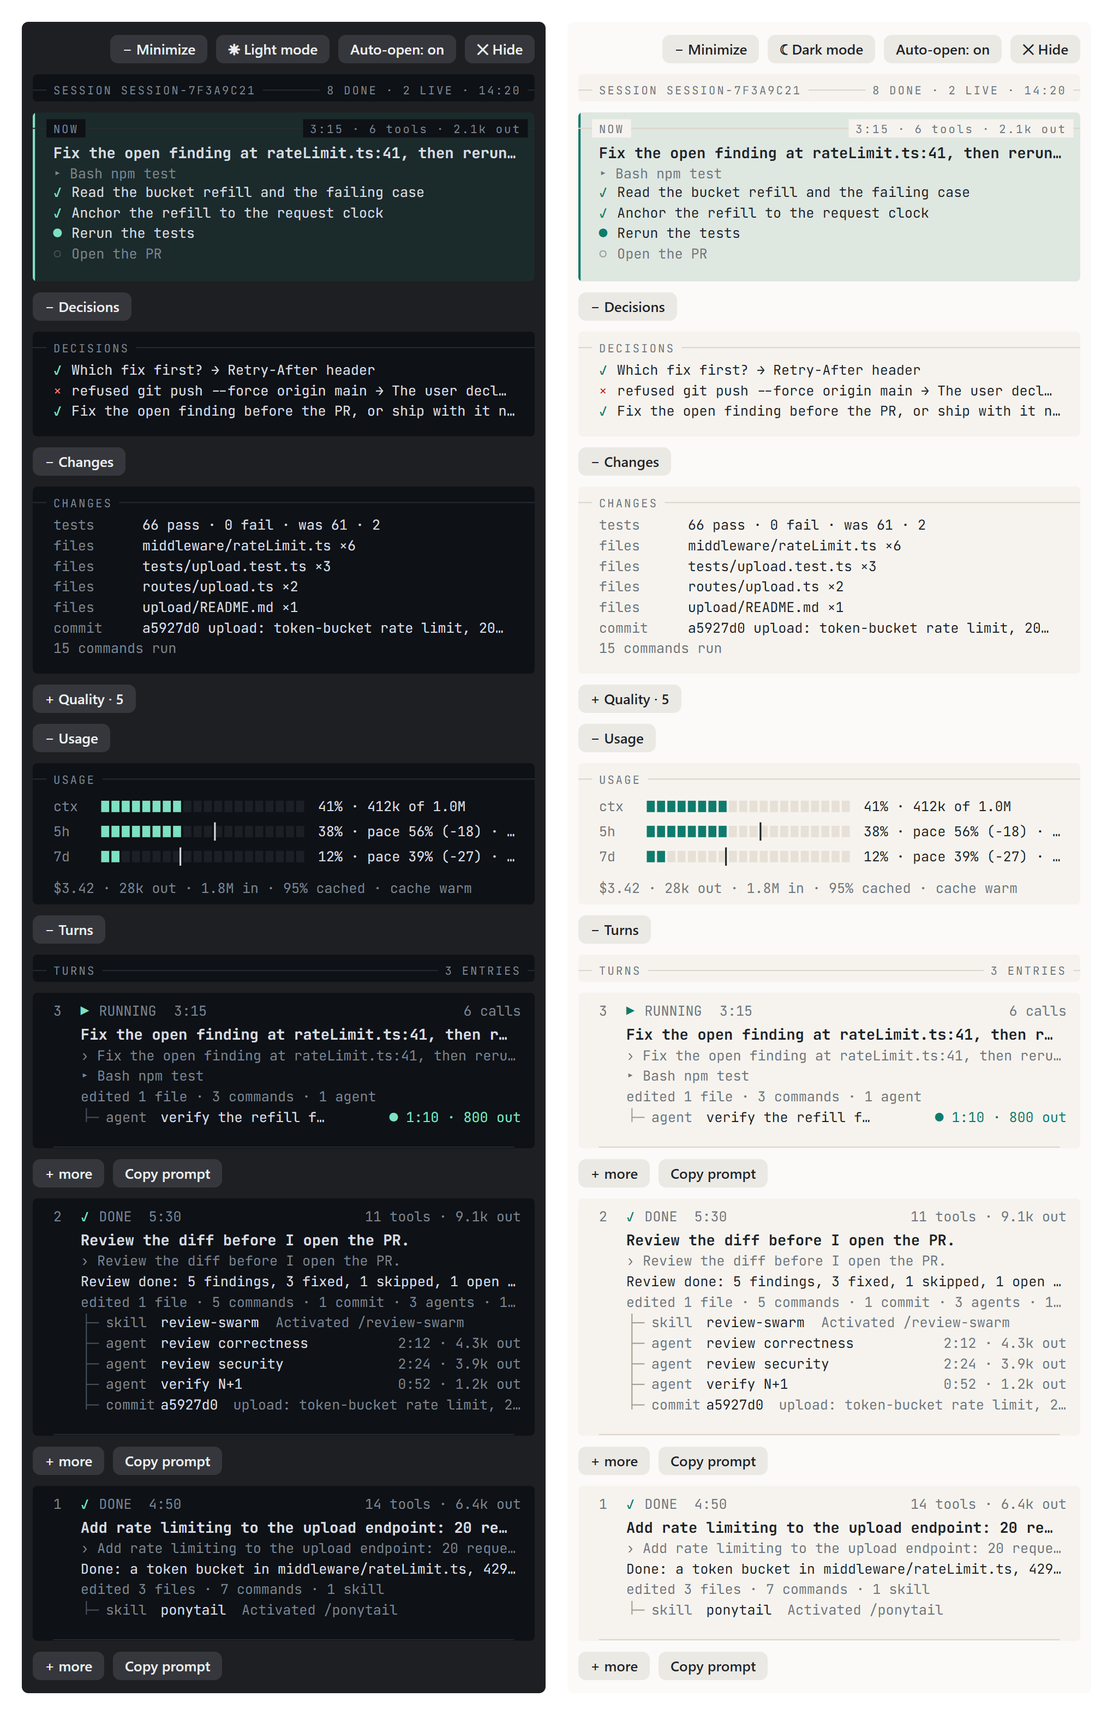
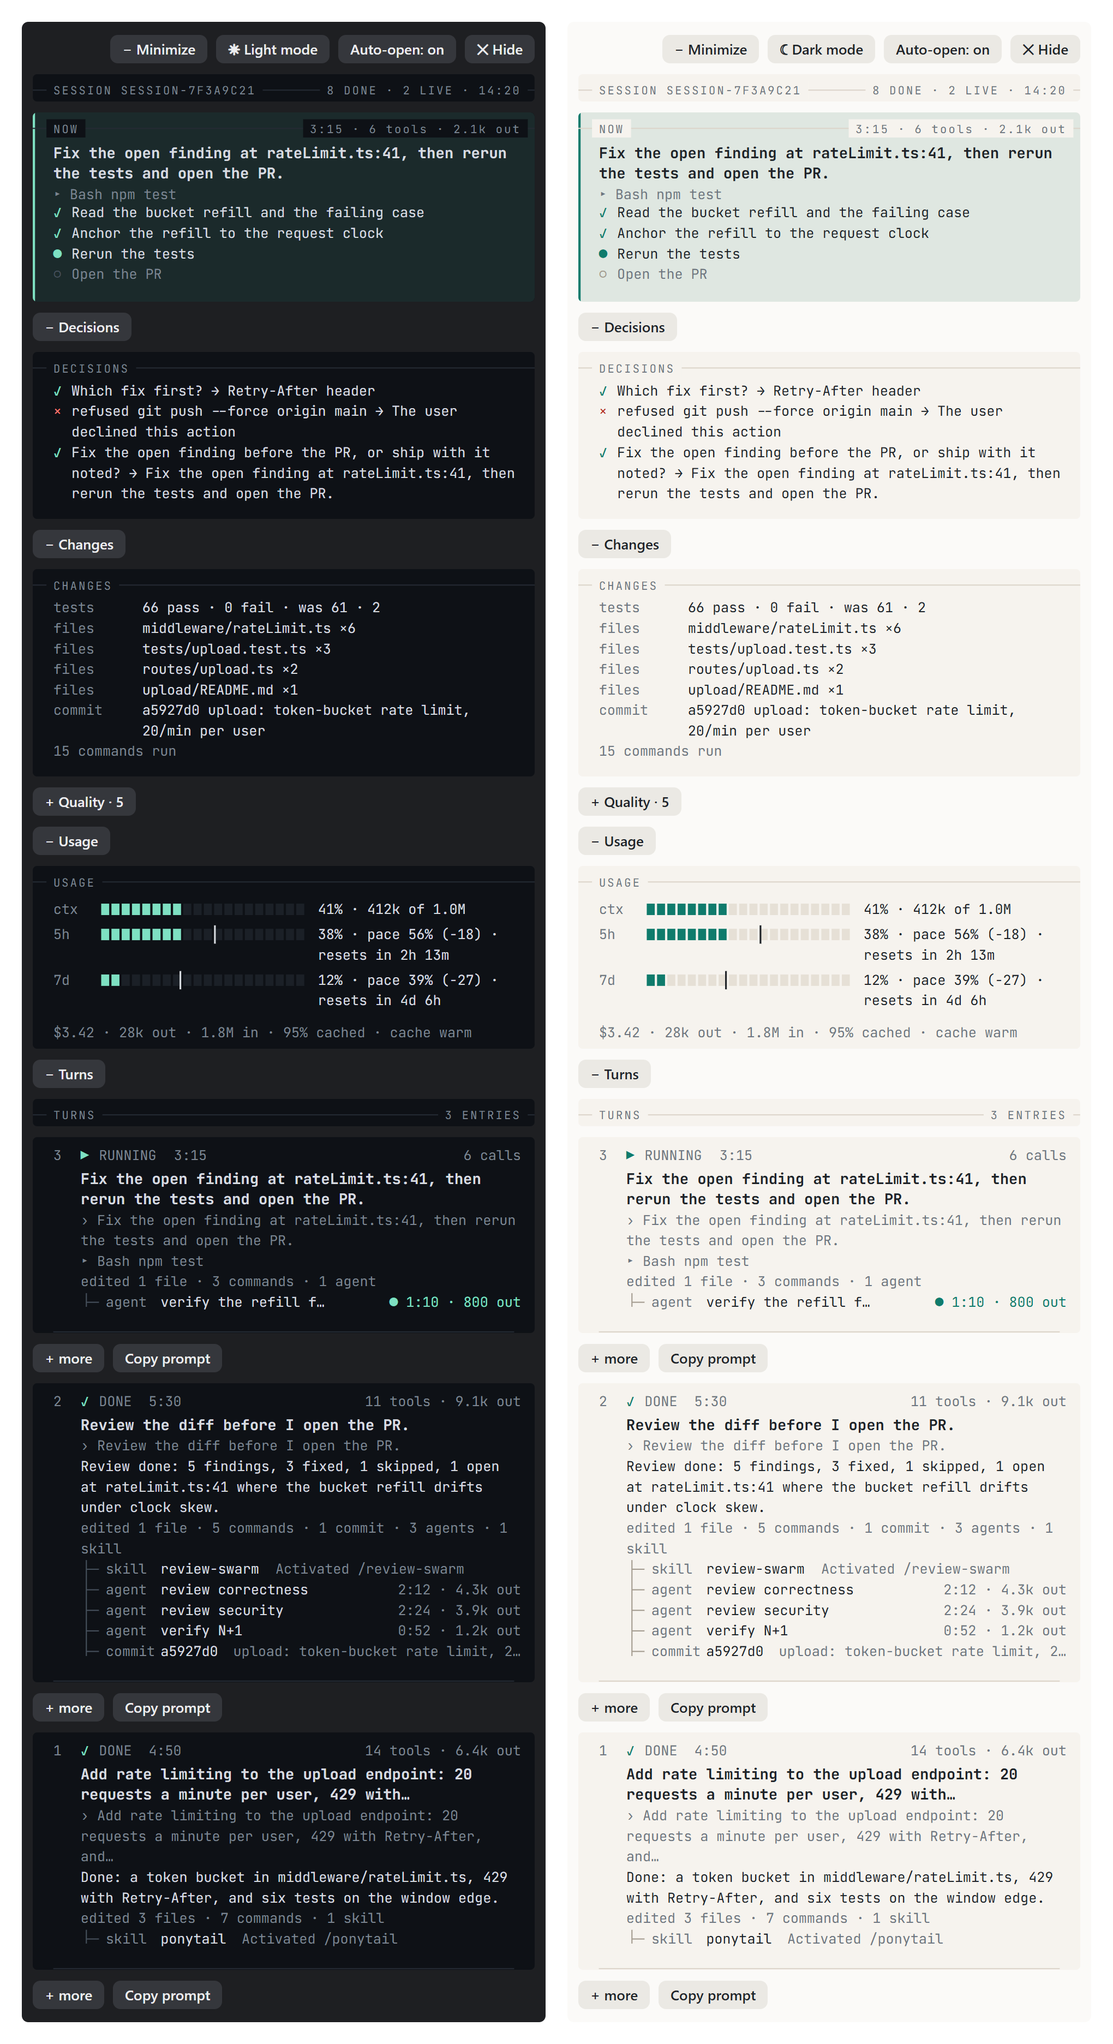
workflow-watch 0.11.6: sentences wrap instead of being cut
Every line that carries a sentence wraps onto further rows and the card
grows by them (four rows at most per line): the NOW title and its live
line, the plan's steps, the DECISIONS, CHANGES and QUALITY lines, a turn's
title, prompt, result and digest, and the USAGE readings and figures. A
turn's title runs to 100 characters of the prompt's first sentence instead
of 60, and a clipped line no longer leaves its ellipsis alone on a row. The
README pictures are drawn again from the same card code.

diff --git a/mods/workflow-watch/hooks/cards.ts b/mods/workflow-watch/hooks/cards.ts
@@ -71,29 +71,67 @@ const GLYPH: Record<string, string> = { '✓': 'acc', '●': 'acc', '○': 'fain
 const LABELS = new Set(['tests', 'files', 'commit', 'review', 'verdict', 'skills'])
 const LINE_H = 18
 
-/** One text line of a section, colored by what it starts with: a state glyph in its tone, a label word muted, the rest in ink. */
-function paintLine(y: number, raw: string): string {
+/** The most rows one line of text takes once wrapped; what is left after them ends in an ellipsis. */
+const MAX_ROWS = 4
+
+/** Wraps a line to the rows that fit `px` at `size`, at most `max` of them, the last cut when more remains; a blank line is one empty row. */
+const wrapTo = (v: string, px: number, size: number, max = MAX_ROWS): string[] => {
+  const rows = wrap(v, px, size)
+  if (rows.length === 0) return ['']
+  if (rows.length <= max) return rows
+  const kept = rows.slice(0, max)
+  kept[max - 1] = fit(`${kept[max - 1]}…`, px, size)
+  return kept
+}
+
+/** Rows of one text column from `y` down, one `text` per row. */
+const column = (x: number, y: number, rows: string[], cls: string, extra = ''): string => rows.map((r, i) => text(x, y + i * LINE_H, r, cls, extra)).join('')
+
+/**
+ * One line of a section as the rows it wraps to, colored by what it starts with: a state glyph in its tone, a label
+ * word muted, the rest in ink. A sentence wraps onto further rows instead of being cut at the card's edge.
+ */
+function paintLine(y: number, raw: string): { svg: string; rows: number } {
   const indent = raw.length - raw.trimStart().length
   const line = raw.trim()
-  if (!line) return ''
+  if (!line) return { svg: '', rows: 1 }
   const glyph = line[0] ?? ''
   const cls = GLYPH[glyph]
-  if (cls && line[1] === ' ') {
-    const rest = line.slice(2)
-    const band = glyph === '?' ? `<rect class="warnDim" x="12" y="${y - 13}" width="${W - 24}" height="${LINE_H}" rx="3"/>` : ''
-    return `${band}${text(18, y, glyph, cls)}${text(34, y, fit(rest, W - 34 - 16, 12), glyph === '○' ? 'mute' : 'ink')}`
+  const body = (x: number, v: string, textCls: string): { svg: string; rows: number } => {
+    const rows = wrapTo(v, W - x - 16, 12)
+    return { svg: column(x, y, rows, textCls), rows: rows.length }
   }
-  if (indent >= 6) return text(96, y, fit(line, W - 96 - 16, 12), 'faint')
+  if (cls && line[1] === ' ') {
+    const rest = body(34, line.slice(2), glyph === '○' ? 'mute' : 'ink')
+    const band = glyph === '?' ? `<rect class="warnDim" x="12" y="${y - 13}" width="${W - 24}" height="${rest.rows * LINE_H}" rx="3"/>` : ''
+    return { svg: `${band}${text(18, y, glyph, cls)}${rest.svg}`, rows: rest.rows }
+  }
+  if (indent >= 6) return body(96, line, 'faint')
   const word = line.split(/\s+/)[0] ?? ''
-  if (LABELS.has(word)) return `${text(18, y, word, 'mute')}${text(96, y, fit(line.slice(word.length).trim(), W - 96 - 16, 12))}`
-  return text(18, y, fit(line, W - 34, 12), 'mute')
+  if (LABELS.has(word)) {
+    const rest = body(96, line.slice(word.length).trim(), 'ink')
+    return { svg: `${text(18, y, word, 'mute')}${rest.svg}`, rows: rest.rows }
+  }
+  return body(18, line, 'mute')
+}
+
+/** Paints lines from `y` down, each taking the rows it wraps to; `end` is the y the next line would start at. */
+function paintLines(y: number, lines: string[]): { svg: string; end: number } {
+  let svg = ''
+  for (const l of lines) {
+    const p = paintLine(y, l)
+    svg += p.svg
+    y += p.rows * LINE_H
+  }
+  return { svg, end: y }
 }
 
 /** A section: its rule, then its text lines; null when it has no lines. */
 export function linesPanel(label: string, right: string, lines: string[], theme: Theme): Card | null {
   if (lines.length === 0) return null
-  const h = 30 + lines.length * LINE_H + 8
-  const body = rule(14, label, right) + lines.map((l, i) => paintLine(38 + i * LINE_H, l)).join('')
+  const painted = paintLines(38, lines)
+  const h = 30 + (painted.end - 38) + 8
+  const body = rule(14, label, right) + painted.svg
   return { source: svg(h, body, theme), alt: [label, ...lines.map(l => l.trim())].join(' | '), width: W, height: h }
 }
 
@@ -119,35 +157,51 @@ export function nowPanel(turn: Stage | undefined, signals: Signals | undefined, 
   const lines: string[] = []
   if (turn) lines.push(turnTitle(turn.prompt) ?? turn.label, liveLine(turn))
   else lines.push('waiting for the first turn')
-  const h = 30 + (lines.length + plan.length) * LINE_H + 10
   const right = turn ? `${elapsed((turn.endedAt ?? now) - turn.startedAt)} · ${figures(turn)}` : ''
   const isLive = turn?.endedAt === null
-  const body =
-    (isLive ? `<rect class="accDim" width="${W}" height="${h}" rx="4"/><rect class="acc" width="2" height="${h}"/>` : '') +
-    rule(14, 'NOW', right) +
-    (turn ? text(18, 40, fit(lines[0] ?? '', W - 34, 13), 'ink', ' font-size="13" font-weight="700"') + text(18, 58, fit(lines[1] ?? '', W - 34, 12), isLive ? 'mute' : 'ink') : text(18, 40, lines[0] ?? '', 'mute')) +
-    plan.map((l, i) => paintLine(38 + (lines.length + i) * LINE_H, l)).join('')
+  // The title and the live line wrap to two rows each; the plan's steps to as many as they need.
+  let y = 40
+  let main = ''
+  if (turn) {
+    const title = wrapTo(lines[0] ?? '', W - 34, 13, 2)
+    main += column(18, y, title, 'ink', ' font-size="13" font-weight="700"')
+    y += title.length * LINE_H
+    const live = wrapTo(lines[1] ?? '', W - 34, 12, 2)
+    main += column(18, y, live, isLive ? 'mute' : 'ink')
+    y += live.length * LINE_H
+  } else {
+    main += text(18, y, lines[0] ?? '', 'mute')
+    y += LINE_H
+  }
+  const steps = paintLines(y - 2, plan)
+  const h = 30 + (steps.end - 38) + 10
+  const body = (isLive ? `<rect class="accDim" width="${W}" height="${h}" rx="4"/><rect class="acc" width="2" height="${h}"/>` : '') + rule(14, 'NOW', right) + main + steps.svg
   return { source: svg(h, body, theme), alt: ['NOW', right, ...lines, ...plan.map(l => l.trim())].filter(Boolean).join(' | '), width: W, height: h }
 }
 
 /** USAGE: one row per meter as twenty cells with a notch where an even pace would sit, then the figures line. */
 export function usagePanel(v: UsageView, theme: Theme): Card {
   const rowH = 22
-  const h = 30 + v.meters.length * rowH + 28
-  const rows = v.meters
-    .map((m, i) => {
-      const y = 42 + i * rowH
-      let cells = ''
-      if (m.percent !== null) {
-        const on = Math.round((Math.max(0, Math.min(100, m.percent)) / 100) * 20)
-        const cls = m.percent >= 85 ? 'onb' : m.percent >= 60 ? 'onw' : 'on'
-        for (let c = 0; c < 20; c++) cells += `<rect class="${c < on ? cls : 'seg'}" x="${60 + c * 9}" y="${y - 9}" width="7" height="10"/>`
-        if (m.pace !== null) cells += `<line class="notch" x1="${60 + (m.pace / 100) * 178}" y1="${y - 12}" x2="${60 + (m.pace / 100) * 178}" y2="${y + 4}" stroke-width="1.5"/>`
-      }
-      return `${text(18, y, m.label, 'mute')}${cells}${text(m.percent === null ? 60 : 250, y, fit(m.text, m.percent === null ? W - 76 : W - 266, 12))}`
-    })
-    .join('')
-  const body = rule(14, 'USAGE') + rows + text(18, 42 + v.meters.length * rowH + 6, fit(v.figures, W - 34, 12), 'mute')
+  // A meter's reading and the figures line wrap to a second row when the pane is narrow, the card growing by it.
+  let y = 42
+  let rows = ''
+  for (const m of v.meters) {
+    let cells = ''
+    if (m.percent !== null) {
+      const on = Math.round((Math.max(0, Math.min(100, m.percent)) / 100) * 20)
+      const cls = m.percent >= 85 ? 'onb' : m.percent >= 60 ? 'onw' : 'on'
+      for (let c = 0; c < 20; c++) cells += `<rect class="${c < on ? cls : 'seg'}" x="${60 + c * 9}" y="${y - 9}" width="7" height="10"/>`
+      if (m.pace !== null) cells += `<line class="notch" x1="${60 + (m.pace / 100) * 178}" y1="${y - 12}" x2="${60 + (m.pace / 100) * 178}" y2="${y + 4}" stroke-width="1.5"/>`
+    }
+    const x = m.percent === null ? 60 : 250
+    const reading = wrapTo(m.text, W - x - 16, 12, 2)
+    rows += `${text(18, y, m.label, 'mute')}${cells}${column(x, y, reading, 'ink')}`
+    y += rowH + (reading.length - 1) * LINE_H
+  }
+  const figures = wrapTo(v.figures, W - 34, 12, 2)
+  const figY = y + 6
+  const h = figY + 10 + (figures.length - 1) * LINE_H
+  const body = rule(14, 'USAGE') + rows + column(18, figY, figures, 'mute')
   return { source: svg(h, body, theme), alt: ['USAGE', ...v.meters.map(m => `${m.label} ${m.text}`), v.figures].join(' | '), width: W, height: h }
 }
 
@@ -189,14 +243,18 @@ export function turnEntry(s: Stage, children: Stage[], now: number, theme: Theme
     const right = kind === 'agent' ? `${live ? '● ' : ''}${elapsed((c.endedAt ?? now) - c.startedAt)} · ${fmtTokens(c.outputTokens)} out` : ''
     return { word: KIND_WORD[kind], name, note: c.summary ?? '', right, live }
   })
-  const h = 30 + 20 + body.length * LINE_H + rows.length * LINE_H + 14
+  // The title wraps to two rows and each body line to the rows it needs, so a sentence is read whole rather than cut.
+  const titleRows = wrapTo(title, width, 13, 2)
+  const bodyRows = body.flatMap(([v, cls]) => wrapTo(v, width, 12).map((r): [string, string] => [r, cls]))
+  const h = 30 + 20 + (titleRows.length - 1) * LINE_H + bodyRows.length * LINE_H + rows.length * LINE_H + 14
   let y = 20
   let out = `${text(18, y, num, 'mute')}${text(42, y, glyph, GLYPH[glyph] ?? 'acc')}${text(58, y, word.toUpperCase(), 'mute')}${text(58 + word.length * 7.4 + 14, y, elapsed((s.endedAt ?? now) - s.startedAt), 'mute')}${text(W - 12, y, isLive ? `${s.calls} calls` : figures(s), 'mute', END)}`
   y += 21
-  out += text(42, y, fit(title, width, 13), 'ink', ' font-size="13" font-weight="700"')
-  for (const [v, cls] of body) {
+  out += column(42, y, titleRows, 'ink', ' font-size="13" font-weight="700"')
+  y += (titleRows.length - 1) * LINE_H
+  for (const [v, cls] of bodyRows) {
     y += LINE_H
-    out += text(42, y, fit(v, width, 12), cls)
+    out += text(42, y, v, cls)
   }
   if (rows.length) {
     const top = y + 6

diff --git a/mods/workflow-watch/tests/turns.test.ts b/mods/workflow-watch/tests/turns.test.ts
@@ -18,12 +18,12 @@ const SESSION = [
 const stage = (over: Partial<Stage>): Stage => ({ kind: 'commit', key: 'c', agentId: null, label: 'commit:abc', phase: 'Turn 1', startedAt: 0, endedAt: 1, summary: null, isEmpty: false, isFailed: false, isDisputed: false, alias: null, model: null, effort: null, outputTokens: 0, calls: 0, lastTool: null, isSettled: true, ...over })
 
 describe('turns', () => {
-  test('a title is the first sentence of the prompt, cut at a word to 60 characters', async () => {
+  test('a title is the first sentence of the prompt, cut at a word to 100 characters', async () => {
     expect(turnTitle('Fix the login bug.')).toBe('Fix the login bug.')
     expect(turnTitle('Fix the login bug. Then deploy.')).toBe('Fix the login bug.')
     expect(turnTitle('why does it fail? no idea')).toBe('why does it fail?')
-    expect(turnTitle(LONG)).toBe('Please look at the tracker pane and tell me why it keeps…')
-    expect(turnTitle('a'.repeat(80))).toBe(`${'a'.repeat(59)}…`)
+    expect(turnTitle(LONG)).toBe('Please look at the tracker pane and tell me why it keeps opening every time I send a message, then…')
+    expect(turnTitle('a'.repeat(120))).toBe(`${'a'.repeat(99)}…`)
     expect(turnTitle('')).toBe(null)
     expect(turnTitle(null)).toBe(null)
     expect(firstSentence('no punctuation at all', 100)).toBe('no punctuation at all')
@@ -40,9 +40,9 @@ describe('turns', () => {
     expect(t?.commands).toBe(2)
     expect(t?.tools).toEqual(['Edit src/a.ts', 'Edit src/a.ts', 'Write src/b.ts', 'Bash npm test', 'PowerShell dir'])
     const lines = stageLines(t as Stage, NOW, parseSession(SESSION, NOW))
-    expect(lines[1]).toBe(`    › ${LONG.slice(0, 99)}…`)
+    expect(lines[1]).toBe(`    › ${LONG.slice(0, 99).trimEnd()}…`)
     expect(lines.at(-1)).toBe('    edited 2 files · 2 commands')
-    expect(lines[0]).toContain('turn:1 · Please look at the tracker pane and tell me why it keeps…')
+    expect(lines[0]).toContain('turn:1 · Please look at the tracker pane and tell me why it keeps opening every time I send a message, then…')
   })
 
   test('the digest counts the items that started inside the turn, whatever phase a skill moved them to', async () => {

diff --git a/mods/workflow-watch/hooks/journal.ts b/mods/workflow-watch/hooks/journal.ts
@@ -261,7 +261,7 @@ const count = (a: unknown): number => (Array.isArray(a) ? a.length : 0)
 /** One line: each run of whitespace and control characters (which the host refuses to draw) becomes one space. */
 const oneLine = (v: unknown): string => String(v ?? '').replace(/[\s\u0000-\u001f\u007f-\u009f]+/g, ' ').trim()
 /** At most n characters; a cut ends in `…`. */
-export const clip = (text: string, n: number): string => (text.length <= n ? text : n <= 0 ? '' : `${text.slice(0, n - 1)}…`)
+export const clip = (text: string, n: number): string => (text.length <= n ? text : n <= 0 ? '' : `${text.slice(0, n - 1).trimEnd()}…`)
 const str = (v: unknown, n = 80): string => clip(oneLine(v), n)
 
 function unquoteArg(v: unknown): string {
@@ -1094,10 +1094,10 @@ export function firstSentence(text: string, n: number): string {
 export function turnTitle(prompt: string | null | undefined): string | null {
   if (!prompt) return null
   const s = firstSentence(prompt, 1000)
-  if (s.length <= 60) return s
-  const cut = s.slice(0, 59)
+  if (s.length <= 100) return s
+  const cut = s.slice(0, 99)
   const at = cut.lastIndexOf(' ')
-  return `${(at > 30 ? cut.slice(0, at) : cut).trimEnd()}…`
+  return `${(at > 50 ? cut.slice(0, at) : cut).trimEnd()}…`
 }
 
 /** `turn:3 · Fix the login bug` for a turn with a prompt; the label alone otherwise. */

diff --git a/mods/workflow-watch/tests/render.test.tsx b/mods/workflow-watch/tests/render.test.tsx
@@ -112,7 +112,7 @@ describe('render', () => {
     on('state.get', { plugin: 'workflow-watch', key: 'watch' }, () => ({ value: { value: { ...WATCH, stages: [turn], isIdle: false }, version: 1 } }))
     const ui = await $.ui.mount(PANE)
     const card = async () => String((await ui.findAll({ type: 'Svg' })).find(n => String(n.props.alt).startsWith('1 ✓ done'))?.props.alt)
-    expect(await card()).toContain('| Please look at the tracker pane and tell me why it keeps… | › ')
+    expect(await card()).toContain('| Please look at the tracker pane and tell me why it keeps opening every time I send a message. | › ')
     expect(await card()).toContain(`› ${prompt.slice(0, 99)}…`)
     expect(await card()).toContain('| edited 1 file · 1 command')
     expect(await card()).not.toContain('Bash npm test')

diff --git a/README.md b/README.md
@@ -10,7 +10,7 @@
   <img alt="Claude Code plugin marketplace" src="https://img.shields.io/badge/Claude_Code-2_plugins-125190?style=flat-square&labelColor=0E1024">&nbsp;
   <img alt="6 skills + 1 workflow" src="https://img.shields.io/badge/skills-6_+_1_workflow-4174A6?style=flat-square&labelColor=0E1024">&nbsp;
   <img alt="alon-skills v3.2.2" src="https://img.shields.io/badge/alon--skills-v3.2.2-125190?style=flat-square&labelColor=0E1024">&nbsp;
-  <img alt="workflow-watch 0.11.5" src="https://img.shields.io/badge/workflow--watch-0.11.5-4174A6?style=flat-square&labelColor=0E1024">&nbsp;
+  <img alt="workflow-watch 0.11.6" src="https://img.shields.io/badge/workflow--watch-0.11.6-4174A6?style=flat-square&labelColor=0E1024">&nbsp;
   <a href="#-evals"><img alt="evals: 19/19 passing" src="https://img.shields.io/badge/evals-19%2F19_passing-067647?style=flat-square&labelColor=0E1024"></a>&nbsp;
   <img alt="MIT license" src="https://img.shields.io/badge/license-MIT-067647?style=flat-square&labelColor=0E1024">&nbsp;
   <a href="https://github.com/alonbaron"><img alt="by alonbaron" src="https://img.shields.io/badge/by-alonbaron-125190?style=flat-square&labelColor=0E1024&logo=github&logoColor=white"></a>
@@ -148,7 +148,7 @@ The tracker follows any open session, not only Workflow runs, and shows everythi
 
 - **`scripts/tracker.mjs`**, from any shell: `node <plugin-root>/scripts/tracker.mjs [--session <id> | --run <dir|wf_id>] [--out tracker.html] [--png tracker.png] [--watch]`. With no flags it picks the newest Claude Code session (CLI or VS Code extension) under `~/.claude/projects/<project>/`. `--session <id>` (or an id prefix) renders that session's full activity feed: `<session>.jsonl`, `<session>/subagents/agent-*` and any `workflows/<run>/journal.jsonl`. `--run` renders a single workflow run, by directory or by its `wf_…` name. `--png` adds a screenshot via Playwright (`--playwright <path>` when not in default module resolution). `--watch` re-renders every five seconds, until the last stage ends for a workflow run, or until Ctrl+C for a session.
 - **In VS Code** (the Claude Code extension): run `node scripts/tracker.mjs --watch` in the integrated terminal and open `tracker.html` with **Simple Browser** or **Live Preview**. With `--watch` the page reloads itself every five seconds and keeps your scroll position and open folds.
-- **`mods/workflow-watch`** (0.11.5), inside Claude Code: a mod (a plugin of function hooks) that opens on `session.start` (unless you turn auto-open off) and follows the active session and its workflows live in the `Tracker` pane beside the chat. It draws nothing else, so the chat gets no band above the prompt, status line entry or toasts. In VS Code the pane is drawn as rounded cards, newest first, with a dark/light toggle and a timeline you can fold. `/plugin install workflow-watch@alonbaron`, or `claude --plugin-dir mods/workflow-watch` for one session; `/tracker` (or `/workflow-watch`) opens the pane and prints the report as text. On Windows it finds the home directory from `USERPROFILE` when `HOME` is unset, as in the VS Code extension host.
+- **`mods/workflow-watch`** (0.11.6), inside Claude Code: a mod (a plugin of function hooks) that opens on `session.start` (unless you turn auto-open off) and follows the active session and its workflows live in the `Tracker` pane beside the chat. It draws nothing else, so the chat gets no band above the prompt, status line entry or toasts. In VS Code the pane is drawn as rounded cards, newest first, with a dark/light toggle and a timeline you can fold. `/plugin install workflow-watch@alonbaron`, or `claude --plugin-dir mods/workflow-watch` for one session; `/tracker` (or `/workflow-watch`) opens the pane and prints the report as text. On Windows it finds the home directory from `USERPROFILE` when `HOME` is unset, as in the VS Code extension host.
 
 ### Minimize and hide
 
@@ -217,6 +217,10 @@ Not shipped here and not mine. Two third-party skills the hand-offs above are wr
 One catch worth knowing about humanizer: as of v2.9.1 the plugin puts `SKILL.md` at its root instead of `skills/humanizer/SKILL.md`. Claude Code installs it, reports it enabled, and never loads it. Copy `SKILL.md` out of `~/.claude/plugins/cache/humanizer/humanizer/<version>/` into `~/.claude/skills/humanizer/` and it works.
 
 ---
+
+## ◢ What's new in workflow-watch 0.11.6
+
+- A sentence wraps onto further rows instead of being cut at the card's edge: the NOW title and its live line, the plan's steps, the DECISIONS, CHANGES and QUALITY lines, a turn's title, prompt, result and digest, and the USAGE readings and figures, each card growing by the rows it needs (four at most per line); a turn's title now runs to 100 characters of the prompt's first sentence.
 
 ## ◢ What's new in workflow-watch 0.11.5
 

diff --git a/mods/workflow-watch/README.md b/mods/workflow-watch/README.md
@@ -11,7 +11,7 @@ The pane also sizes itself. While anything runs it shows every section. After 20
 TURNS lists one entry per turn, newest first, so the latest work sits just under the rule and older work further down. The pane scrolls by itself in VS Code and ignores a plugin's request to scroll, so this order keeps the live work in view without following the end. An entry shows:
 
 - a head row: the turn number, its state as a glyph and a word (`✓ DONE`, `● LIVE`, `× FAILED`, `× NO RESULT`), how long it ran, and at the right its tool count and output tokens, with the cache share once it is done;
-- a title taken from your prompt (its first sentence, cut at a word to 60 characters) in bold;
+- a title taken from your prompt (its first sentence, cut at a word to 100 characters) in bold;
 - your prompt on a `›` line, cut to 100 characters. A message you send while Claude works shows there as `(mid-turn) …` and opens no new turn;
 - while the turn runs, the tool it is in (`▸ Bash npm test`); once it is done, the first sentence of Claude's closing text (`(interrupted)` in front when you stopped it);
 - for a turn that did something, a digest: `edited 3 files · 7 commands · 1 commit · 2 agents · 1 skill`, counting the items that started while the turn ran;
